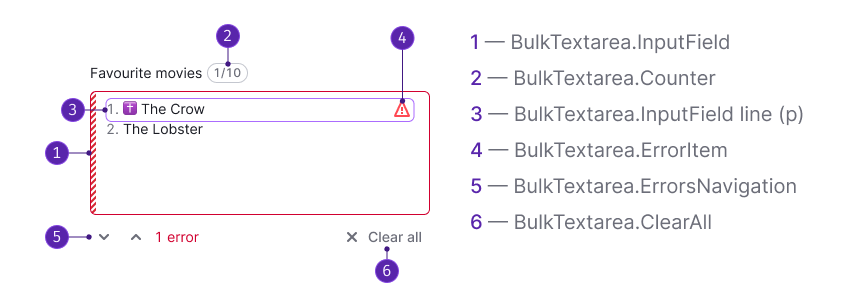
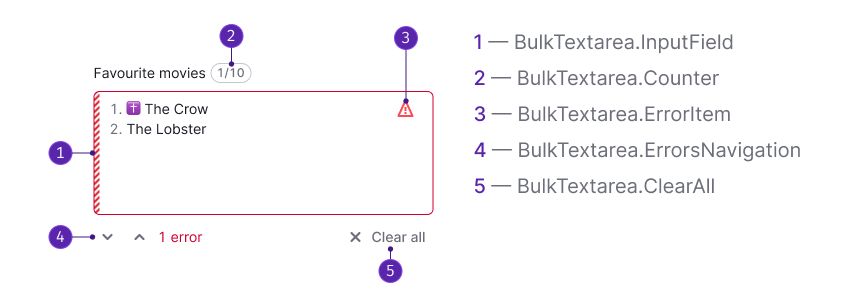
[docs] update doc

diff --git a/website/docs/components/bulk-textarea/bulk-textarea.md b/website/docs/components/bulk-textarea/bulk-textarea.md
@@ -19,7 +19,6 @@ Component consists of the following:
 
 - `BulkTextarea.InputField`
 - `BulkTextarea.Counter`
-- `BulkTextarea.InputField line (p)`
 - `BulkTextarea.ErrorItem`
 - `BulkTextarea.ErrorsNavigation`
 - `BulkTextarea.ClearAll`
@@ -32,8 +31,6 @@ Component has two sizes:
 
 - M, with `--fs-200` font size
 - L, with `--fs-300` font size
-
-![](static/bulk-sizes.png)
 
 ### Lines
 
